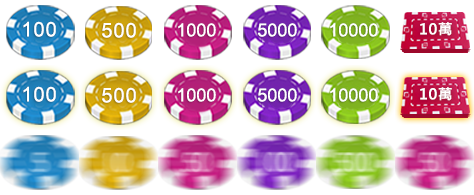
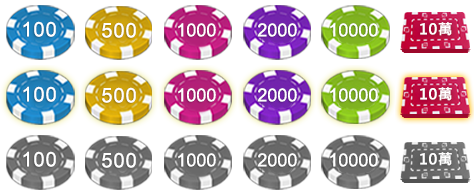
//更換籌碼圖案

Changed region(s): [[0.0, 0.6769, 1.0, 0.9846], [0.5316, 0.4615, 0.5612, 0.5231], [0.5316, 0.1231, 0.5612, 0.1846]]

diff --git a/src/components/Counter.vue b/src/components/Counter.vue
@@ -86,22 +86,25 @@ export default defineComponent({
                 }
             },1000)
         }
-        // watch(timer,()=>{  //測試計時器是否有被清除
-        //     if(timer.value){
-        //         console.log("計時中")
-        //     }else{
-        //         console.log('計時器被清除')
-        //     }
-        // })
+        watch(timer,()=>{  //測試計時器是否有被清除
+            if(timer.value){
+                console.log("計時中")
+            }else{
+                console.log('計時器被清除')
+            }
+        })
         // //專門for換桌時候的count；切桌時rounduuid一定會更換
         watch(roundUuid,()=>{ //偵測到換桌時，倒數要根據剩餘的秒數來執行
-                // console.log("新局開始",count.value)
-                timer ?  clearInterval(timer.value) : null   //先清除上一桌的timer
-                setCount()
+                console.log("新局開始",count.value,'回合uuid',roundUuid.value)
+                if(roundUuid.value){
+                    console.log('有UUid才要倒數')
+                    timer ?  clearInterval(timer.value) : null   //先清除上一桌的timer
+                    setCount()
+                }
         })
         watch(lastCount,()=>{ //換桌時候會偵測現在的秒數
             if(gameStatus.value==1){
-                console.log(lastCount.value)
+                console.log('倒數剩下幾秒',lastCount.value)
                 timer ?  clearInterval(timer.value) : null   //先清除上一桌的timer
                 count.value = lastCount.value
                 setCount()
@@ -109,9 +112,10 @@ export default defineComponent({
         })
         return{
             //data
-            count,displayNum,
+            count,
+            displayNum,
             //methods
-            setCount
+            setCount,
         }
     },
 })

diff --git a/src/views/BettingArea.vue b/src/views/BettingArea.vue
@@ -230,7 +230,7 @@ export default defineComponent({
                     num:3,
                     },
                     {
-                    point:5000,
+                    point:2000,
                     ammo:[], //子彈陣列
                     num:4,
                     },
@@ -327,7 +327,7 @@ export default defineComponent({
             defaultCoin2.classList.replace('coin-menu2-disable','coin-menu2')
             defaultCoin3.classList.replace('coin-menu3-disable','coin-menu3')
             canUseSmallCoin.value = true
-            console.log('可否使用小籌碼',canUseSmallCoin.value)
+            // console.log('可否使用小籌碼',canUseSmallCoin.value)
         }
         function setMinBetCoinUnusable(){
             let defaultCoin1 = document.querySelector('#defaultCoin1') as HTMLElement
@@ -343,8 +343,8 @@ export default defineComponent({
             defaultCoin2.classList.add('coin-menu2-disable')
             defaultCoin3.classList.add('coin-menu3-disable')
             canUseSmallCoin.value = false
-            console.log(defaultCoin1.classList,defaultCoin2.classList,defaultCoin3.classList)
-            console.log('可否使用小籌碼',canUseSmallCoin.value)
+            // console.log(defaultCoin1.classList,defaultCoin2.classList,defaultCoin3.classList)
+            // console.log('可否使用小籌碼',canUseSmallCoin.value)
         }
         function chooseCoint (index:number,e:MouseEvent) {
             //超過最小下注額才可以使用前三個籌碼

diff --git a/src/store/game.ts b/src/store/game.ts
@@ -18,7 +18,7 @@ export const state = {
       state.numOfRound = payload.numOfRound
       state.numOfShoe = payload.numOfShoe
       state.gameResultCount = payload.gameResultCounter
-      // console.log("vuex-BetRoundStart資料更新",state.BetRoundStart)
+      console.log("vuex-BetRoundStart資料更新",state.BetRoundStart)
     },
     BetRoundCountdown(state:any, payload:any){
       state.BetRoundCountdown = payload
@@ -26,7 +26,7 @@ export const state = {
     },
     GameStatus(state:any, payload:any){
       state.GameStatus = payload
-      state.gameUuid = payload.gameUuid
+      // state.gameUuid = payload.gameUuid
       state.numOfRound = payload.numOfRound
       state.numOfShoe = payload.numOfShoe
       state.gameResultCount = payload.gameResultCounter

diff --git a/src/views/BaccaratGame.vue b/src/views/BaccaratGame.vue
@@ -45,7 +45,7 @@ export default defineComponent({
       return store.state.table.TableJoinRecall
     }))
     watch(tableRecall,()=>{
-      console.log("回應上桌資料:",tableRecall.value)
+      // console.log("回應上桌資料:",tableRecall.value)
     })
     //先送一次tableJoinCall
     onMounted(async()=>{
@@ -61,7 +61,7 @@ export default defineComponent({
     //監聽
     // 2.發送換桌請求
     watch(tables,()=>{
-      console.log("有tables")
+      // console.log("有tables")
       tableJoin()
     })
     watch([tableNum],()=>{

diff --git a/src/components/SideRoadGrid.vue b/src/components/SideRoadGrid.vue
@@ -712,7 +712,7 @@ export default defineComponent({
             bigRoadColArr[i] = [0,0,0,0,0,0]
           }
           bigRoadResult.value.columns.forEach((i:any)=>{
-            console.log(i)
+            // console.log(i)
             i.blocks.forEach((item:any)=>{
                recordBigRoad(item)  //1.紀錄陣營
               // if(item == 13 || item == 14 || item ==15 || item == 16 || item ==17 ||

diff --git a/src/store/lobby.ts b/src/store/lobby.ts
@@ -10,7 +10,7 @@ export const actions = {}
 export const mutations = {
   LobbyInfo(state:any, payload:any) { //接收wbSocket的訊息
     state.LobbyInfo=payload
-    console.log("vuex-lobby資料更新",state.LobbyInfo)
+    // console.log("vuex-lobby資料更新",state.LobbyInfo)
     state.tableAUid = payload.tables[0].uuid
     state.tableBuid = payload.tables[1].uuid
   },

diff --git a/src/webSocket.ts b/src/webSocket.ts
@@ -56,7 +56,7 @@ const oncloseWs = () => {
       Socket.send(message)
     } else if (Socket?.readyState === 0) { //正在連接中
       connecting(message)
-      console.log("readyState:"+Socket.readyState,"準備傳送:"+message);
+      // console.log("readyState:"+Socket.readyState,"準備傳送:"+message);
     }
   }
 

diff --git a/src/components/BetInfor.vue b/src/components/BetInfor.vue
@@ -36,7 +36,6 @@
           <li class="font_red">0%</li> 
           <li class="font_yellow">0%</li> 
         </section>
-        
       </ul>
   </div>
 </template>
